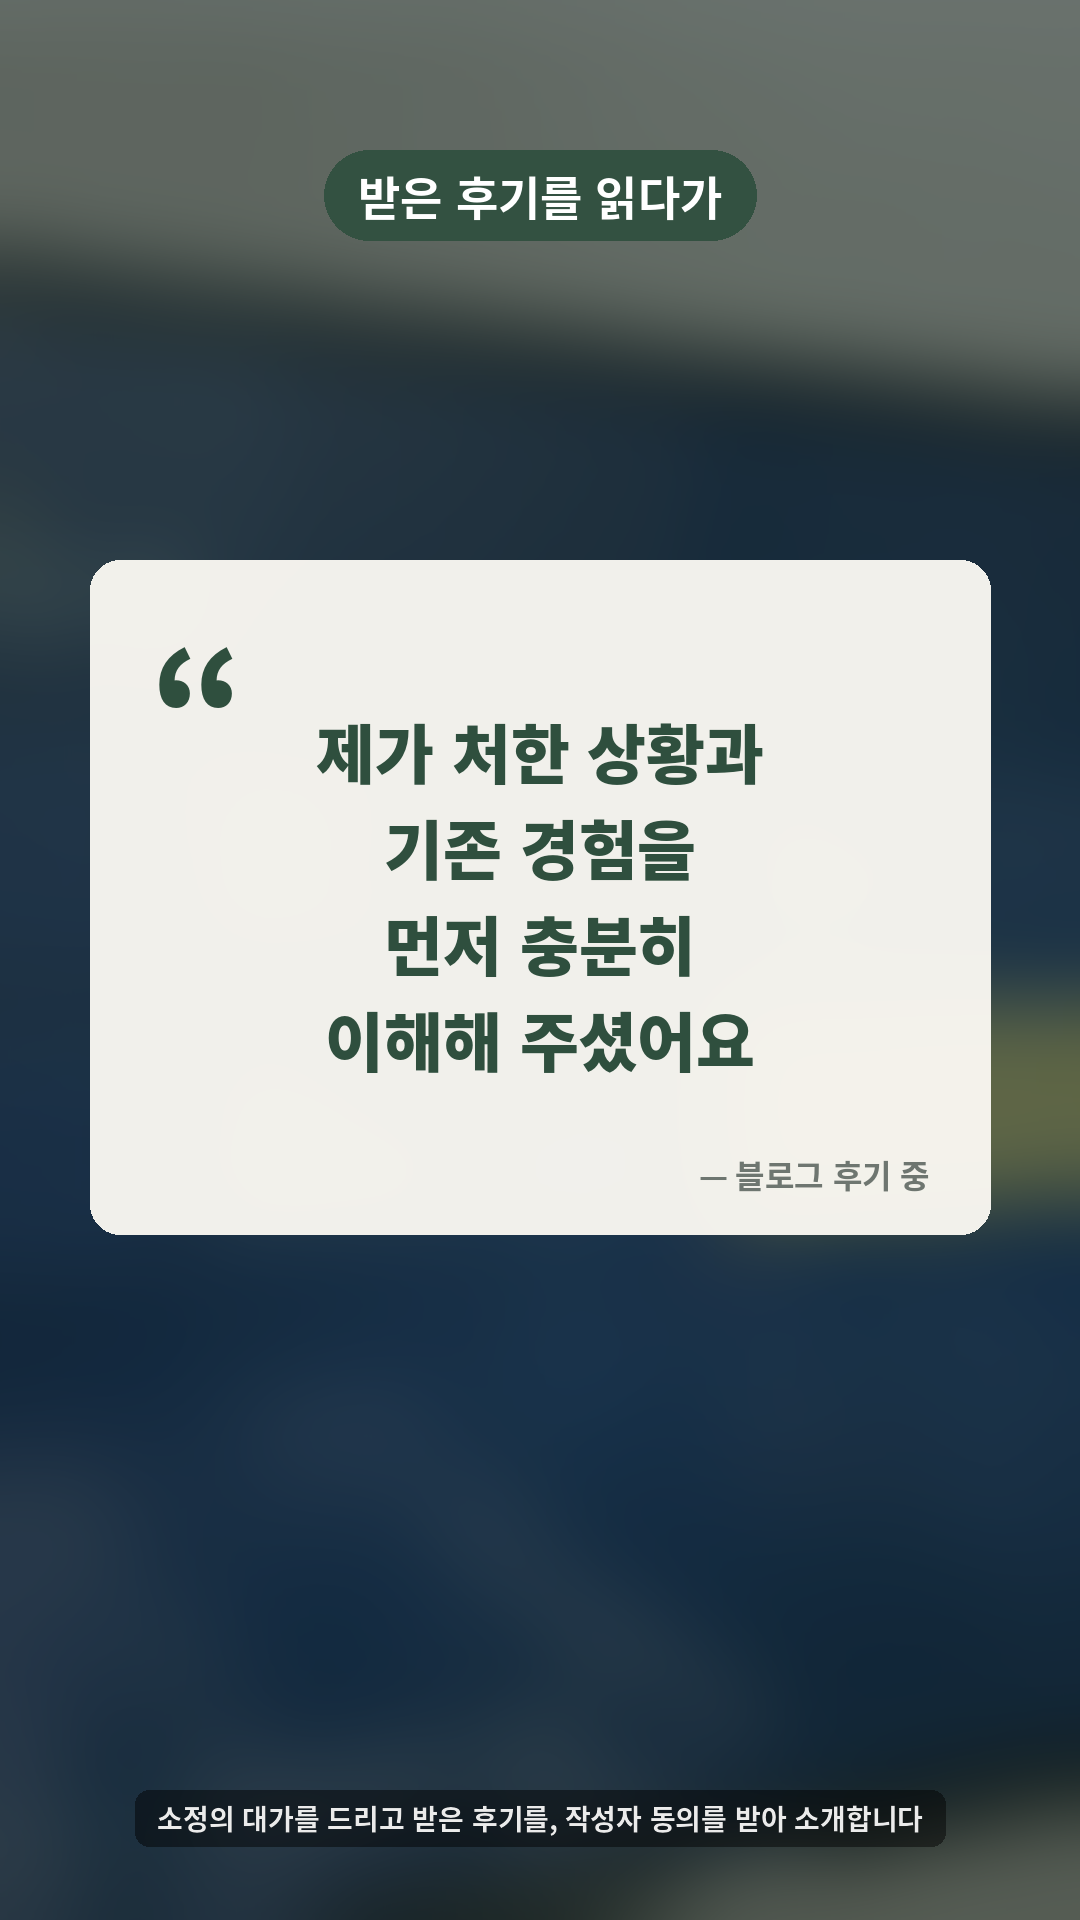
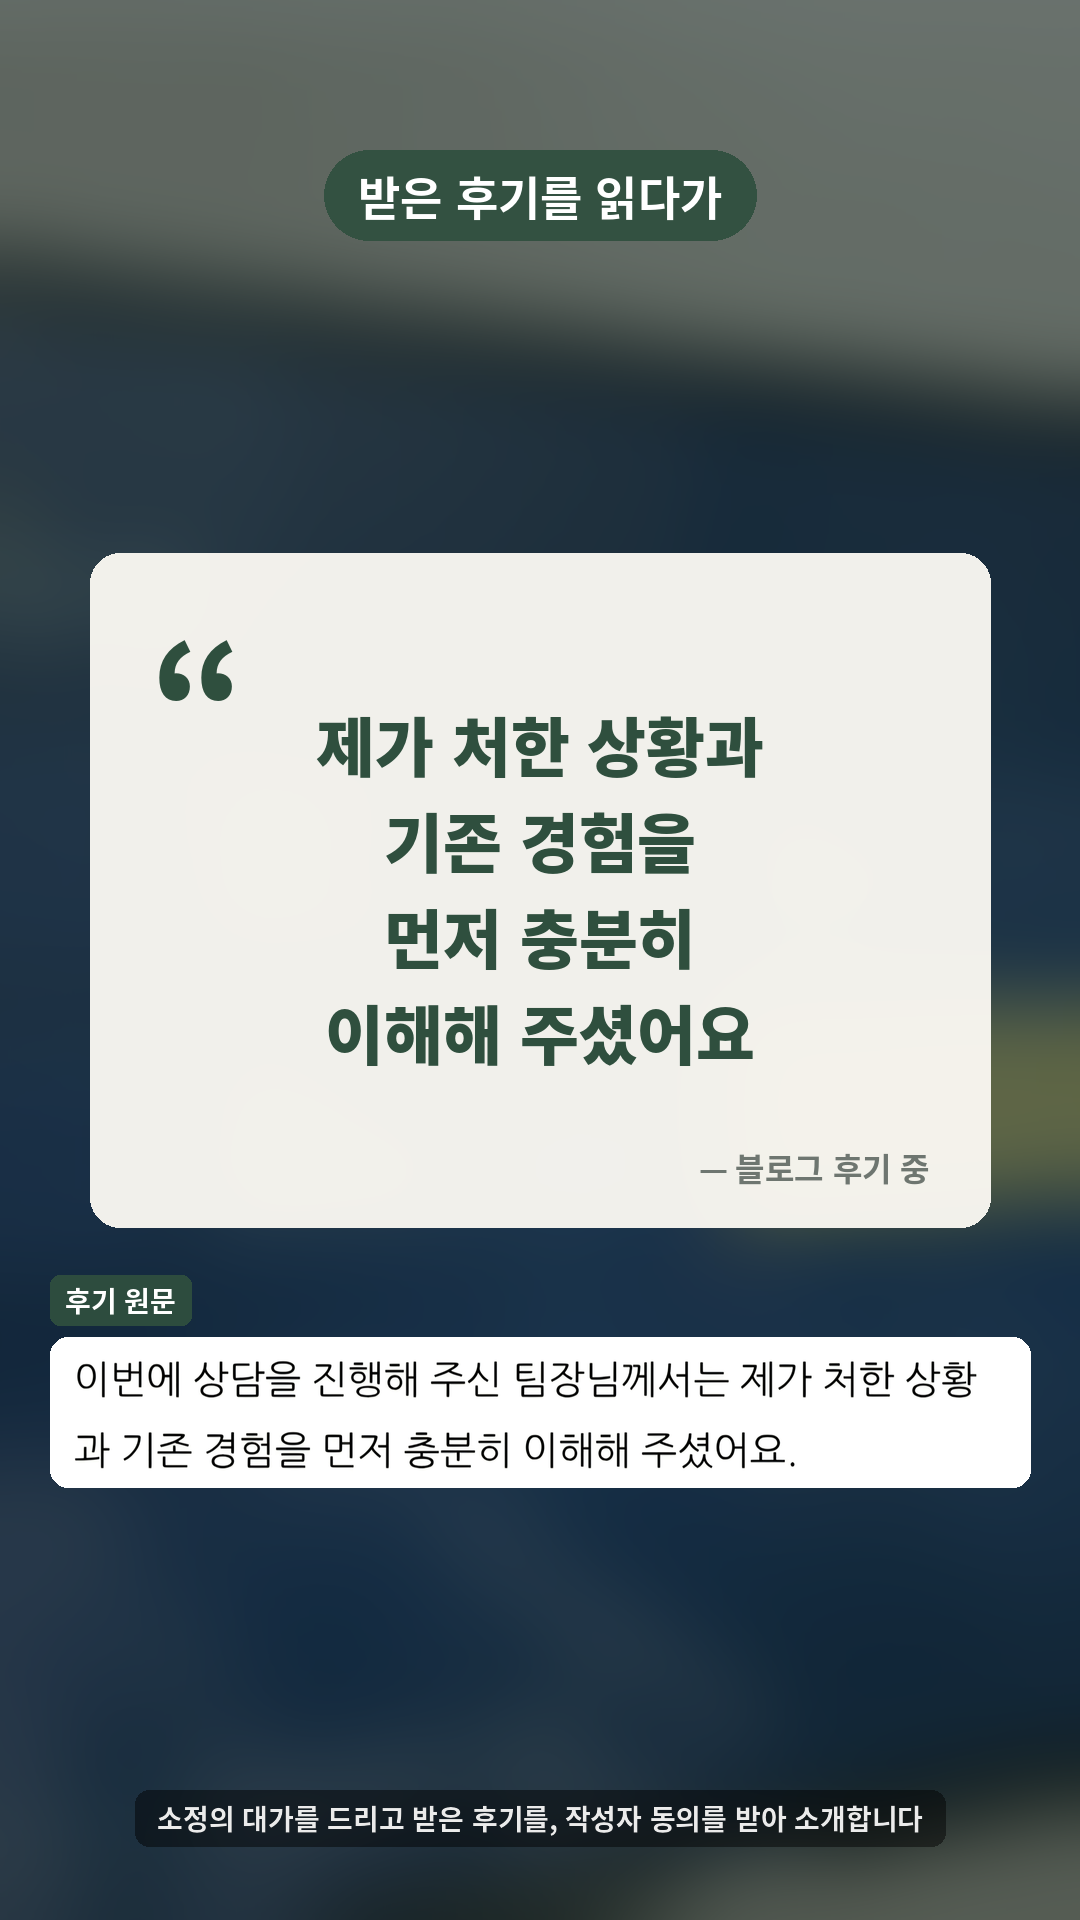
후기 소개 릴스: 3번 문구 수정, 빈 아래쪽을 후기 사진·원문으로 채움(이름 흐림)
Claude-Session: https://claude.ai/code/session_017tLkMEY4PhFNEhB5zYWJXN

Changed region(s): [[0.0306, 0.5938, 0.9778, 0.7812], [0.275, 0.375, 0.7028, 0.5625], [0.0917, 0.2812, 0.9167, 0.375]]

diff --git a/sources/photoreel/2026-11-26-seven-areas/후기소개_게시글_대본.md b/sources/photoreel/2026-11-26-seven-areas/후기소개_게시글_대본.md
@@ -1,4 +1,4 @@
-# 「후기 한 문장에서 멈췄어요」 후기 소개 릴스 (틀 시안, 31.2초)
+# 「후기 한 문장에서 멈췄어요」 후기 소개 릴스 (틀 시안, 31.4초)
 
 핵심: 후기에서 남은 건 상품 설명이 아니라 "먼저 이해해 줬다"는 말 → 그래서 저는 상품보다 이야기를 먼저 듣는다.
 ※ 감정 표현("오래 멈췄어요", "다시 묻게 됐어요")은 제가 쓴 초안입니다. 실제 느낌에 맞게 고쳐 주세요.
@@ -12,7 +12,7 @@
 ## 녹음용 대본
 1. 받은 후기를 읽다가, 한 문장에서 오래 멈췄어요.
 2. "제가 처한 상황과 기존 경험을 먼저 충분히 이해해 주셨어요."
-3. 상품 설명보다, '먼저 이해해 줬다'는 게 남았다는 거예요.
+3. 상품 설명보다, 제 상황을 먼저 이해해 줬다는 거예요.
 4. "보험에 익숙하지 않은 제 눈높이에 맞춰 설명해 주셨고."
 5. 돈의 일곱 칸을 펼쳐도, 어느 칸부터 볼지는 그 사람 이야기가 정해요. 그래서 저는 상품보다 이야기를 먼저 들어요.
 6. 저도 다시 묻게 됐어요. 내 돈 이야기, 먼저 들어 준 사람 있었나요?
